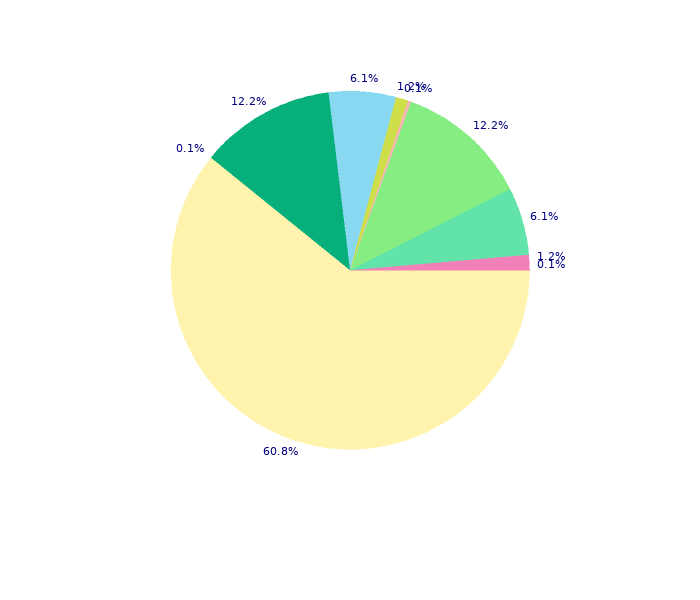
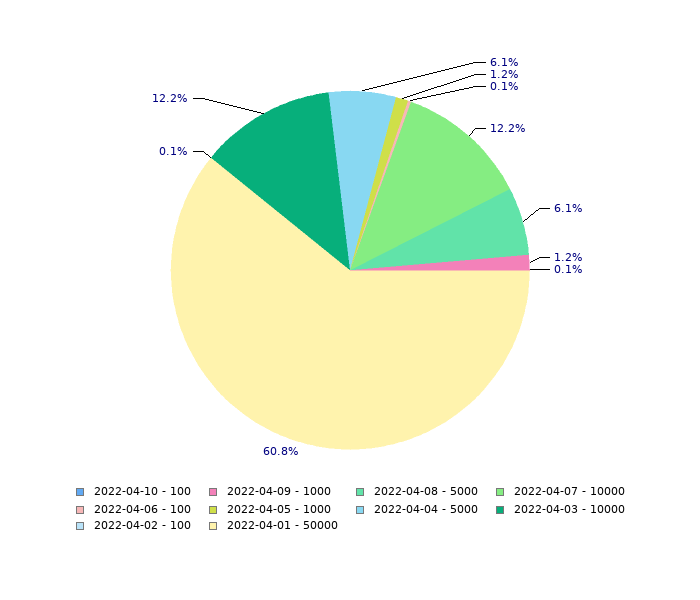
pie

diff --git a/templates/contents.html b/templates/contents.html
@@ -1,0 +1,95 @@
+<html>
+
+<head>
+    <meta charset="utf-8">
+    <meta name="viewport" content="width=device-width, initial-scale=1, shrink-to-fit=no">
+    <meta name="robots" content="noindex,nofollow">
+    <link rel="stylesheet" href="https://stackpath.bootstrapcdn.com/bootstrap/4.3.1/css/bootstrap.min.css"
+        integrity="sha384-ggOyR0iXCbMQv3Xipma34MD+dH/1fQ784/j6cY/iJTQUOhcWr7x9JvoRxT2MZw1T" crossorigin="anonymous">
+    <style>
+    .daily_countrys,
+    table,
+    th,
+    td {
+        margin-top: 15px;
+        border: 1px solid black;
+    }
+
+    .card-mail {
+        position: relative;
+        width: 70%;
+        top: 5%;
+        left: 5%;
+    }
+    </style>
+</head>
+
+<body>
+    <h1 class="ortho_admin_header">&nbsp;</h1>
+    <div class="card-mail text-center">
+        <div class="card-header">
+            Daily Analytics. 04-10-2022        </div>
+        <div class="card-body">
+            <h2>Today.</h2>
+            <ul class="list-group">
+                <li class="list-group-item d-flex justify-content-between align-items-center">
+                    Requests
+                    <span class="badge badge-primary badge-pill">0</span>
+                </li>
+            </ul>
+            <ul class="list-group">
+                <li class="list-group-item d-flex justify-content-between align-items-center">
+                    Desktop
+                    <span class="badge badge-primary badge-pill">1</span>
+                </li>
+            </ul>
+            <ul class="list-group">
+                <li class="list-group-item d-flex justify-content-between align-items-center">
+                    Mobile
+                    <span class="badge badge-primary badge-pill">0</span>
+                </li>
+            </ul>
+            <div class="daily_countrys" align="center">
+                <table>
+                    <th width="100px">Country</th>
+                    <th width="100px">Visits</th>
+                    <tbody>
+                                            </tbody>
+                </table>
+            </div>
+        </div>
+        <div class="card-footer text-muted">
+            <hr />
+        </div>
+    </div>
+    <div class="card-mail text-center">
+        <div class="card-body">
+            <h2>More Statistics.</h2>
+            <ul class="list-group">
+                <li class="list-group-item d-flex justify-content-between align-items-center">
+                    Requests(no filters)
+                    <span class="badge badge-primary badge-pill">5411</span>
+                </li>
+                <li class="list-group-item d-flex justify-content-between align-items-center">
+                    Networks
+                    <span class="badge badge-primary badge-pill">9</span>
+                </li>
+            </ul>
+        </div>
+        <div class="card-footer text-muted">
+            <h2>Seven Days</h2>
+            <img src="http://127.0.0.1/wp-content/plugins/wp-local/includes/analytics/graphs/line.png" />
+            <hr />
+            <img src="http://127.0.0.1/wp-content/plugins/wp-local/includes/analytics/graphs/plot.png" />
+            <hr />
+            <img src="http://127.0.0.1/wp-content/plugins/wp-local/includes/analytics/graphs/pie.png" />
+            <hr />
+            <h2>Countries Today.</h2>
+            <img src="http://127.0.0.1/wp-content/plugins/wp-local/includes/analytics/graphs/bar.png" />
+            <hr />
+
+        </div>
+    </div>
+</body>
+
+</html>

diff --git a/includes/analytics/webgraph.php b/includes/analytics/webgraph.php
@@ -115,8 +115,24 @@ function ortho_pie_graph($data) {
  
     $graph = new PieGraph(700,600, 'auto');
     $graph->SetShadow();
-    
+    $amount = array();
     $p1 = new PiePlot($data);
+    $dates = array();
+    for($i = 0; $i < count($data); $i++) {
+        $date1 = new DateTime(); 
+        $date1->modify("-" . $i . " day");
+        $date1 = $date1->format("Y-m-d");
+        $date1 = $date1 . " - " . $data[$i];
+        array_push($dates, $date1);
+    }
+
+    $p1->SetLegends($dates);
+
+    $p1->SetGuideLines(true,false);
+    $p1->SetGuideLinesAdjust(1.1);
+    $p1->SetLabelType(PIE_VALUE_PER);    
+    $p1->value->Show();              
+    $p1->value->SetFormat('%2.1f%%');
     $graph->Add($p1);
     $graph->Stroke(GARY_PLUGIN_URI . "includes/analytics/graphs/pie.png");
 }

diff --git a/admin/admin-testing.php b/admin/admin-testing.php
@@ -1,5 +1,5 @@
 <script>
-var fancy = document.getElementById("fancy");
+var fancy = document.getElementById("fancy-logs");
 fancy.scrollIntoView(false);
 </script>
 <style>
@@ -71,9 +71,9 @@ fancy.scrollIntoView(false);
                             $lines = explode("\n", $contents);
                             foreach($lines as $word) {
                                 if ($word != "") {
-                                    echo "<p>---</p>";
+                                    echo "<p>";
                                     echo $word;
-                                    echo "<p>---</p>";
+                                    echo "</p>";
                                 }
                             }
                             fclose($myfile);
